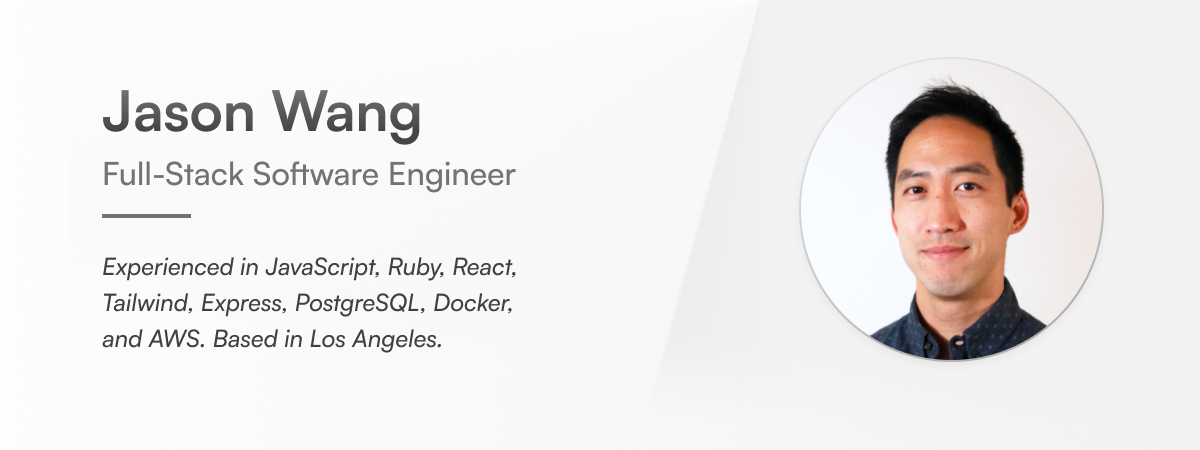
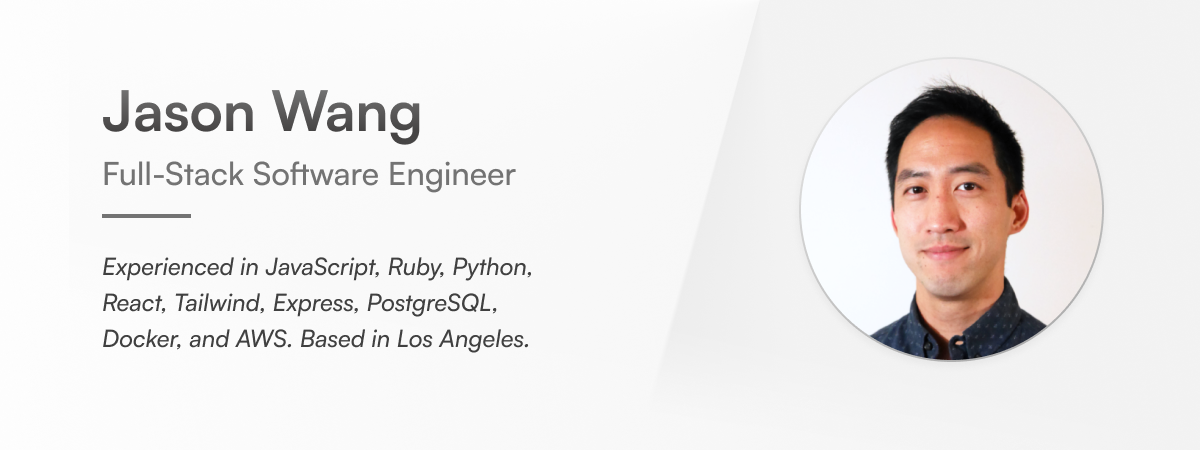
feat: update readme

Changed region(s): [[0.0617, 0.6533, 0.4317, 0.7778], [0.37, 0.56, 0.4317, 0.6222]]

diff --git a/README.md b/README.md
@@ -1,18 +1,18 @@
 # Welcome!
 
-I’m Jason, a software engineer who enjoys diving into complex domains and solving unstructured problems. My experience is mostly in JavaScript, Ruby, React, Tailwind, Express, PostgreSQL, Docker, and AWS, but I’m enthusiastic about learning any technologies or skills that will help the team succeed.
+I’m Jason, a software engineer who enjoys diving into complex domains and solving problems across the stack. My experience is in JavaScript, Ruby, Python, React, Tailwind, Express, PostgreSQL, Docker, and AWS, and I’m enthusiastic about learning anything to help the team succeed. Recently, I collaborated with a remote team to create Seamless, an open-source CI/CD pipeline for containerized microservices.
 
-## Featured Project
+I also have a background in mechanical engineering - leading clean energy projects, automating processes, and managing cross-functional efforts.
 
-Over the past year I’ve been learning software engineering at Launch School, gaining a solid foundation of fundamentals and the ability to analyze and articulate problems from a systems perspective. Most recently, I collaborated with a remote team to create [Seamless](https://seamless-cicd.com/), an open-source CI/CD pipeline for containerized microservices.
-
-Check out the [Case Study](https://seamless-cicd.com/case-study) and [Tech Talk](https://www.youtube.com/watch?v=L-WuIpvBv38) for more details!
-
-![Seamless CI/CD](og-seamless.png)
-
-**Currently I’m looking for a software engineering position and would love to learn about you and what you’re doing. Don’t hesitate to reach out If you see anything interesting on my profile or website!**
+Feel free to reach out if you need help or want to chat!
 
 - [Website](https://www.jasonherngwang.com/)
 - [Resume](https://jasonherngwang.com/Jason_Wang_Resume.pdf)
 - [LinkedIn](https://www.linkedin.com/in/jasonherngwang/)
-- Email: [jasonherngwang@gmail.com](mailto:jasonherngwang@gmail.com)
+- [jasonherngwang@gmail.com](mailto:jasonherngwang@gmail.com)
+
+## Featured Project
+
+![Seamless CI/CD](og-seamless.png)
+
+[Seamless](https://seamless-cicd.com/) is a serverless CI/CD pipeline that features a CLI for AWS deployment, a real-time dashboard, integration testing with Docker Compose, rollbacks, log storage in Redis, and parallel execution of pipelines. Check out the [Case Study](https://seamless-cicd.com/case-study) and [Tech Talk](https://www.youtube.com/watch?v=L-WuIpvBv38)!
